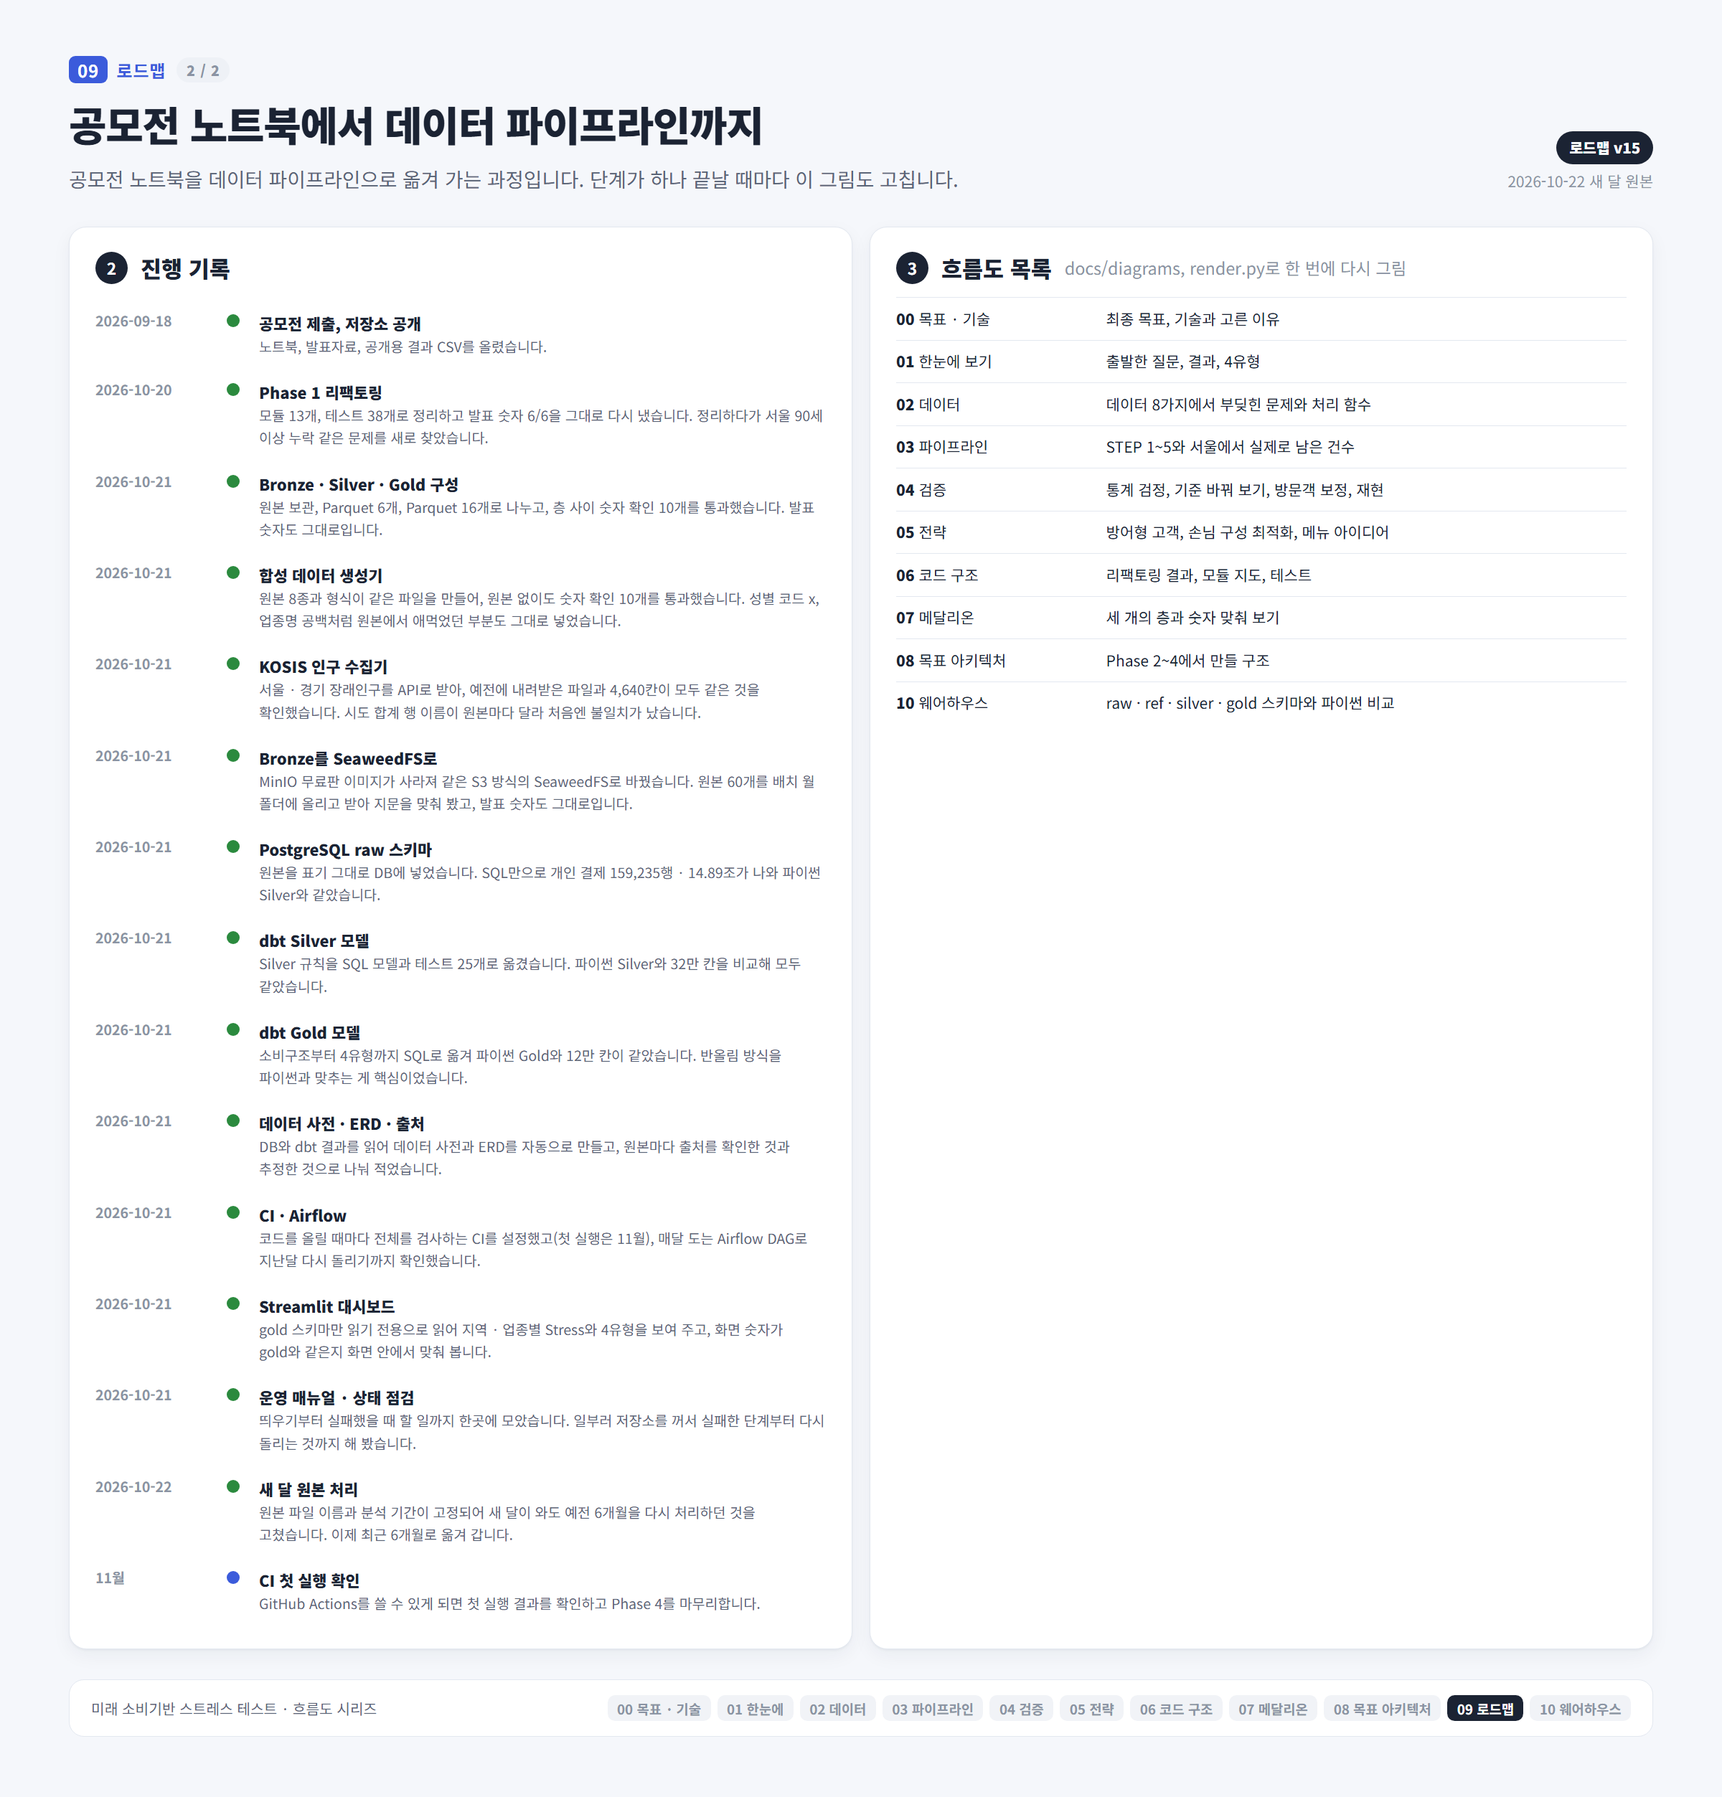
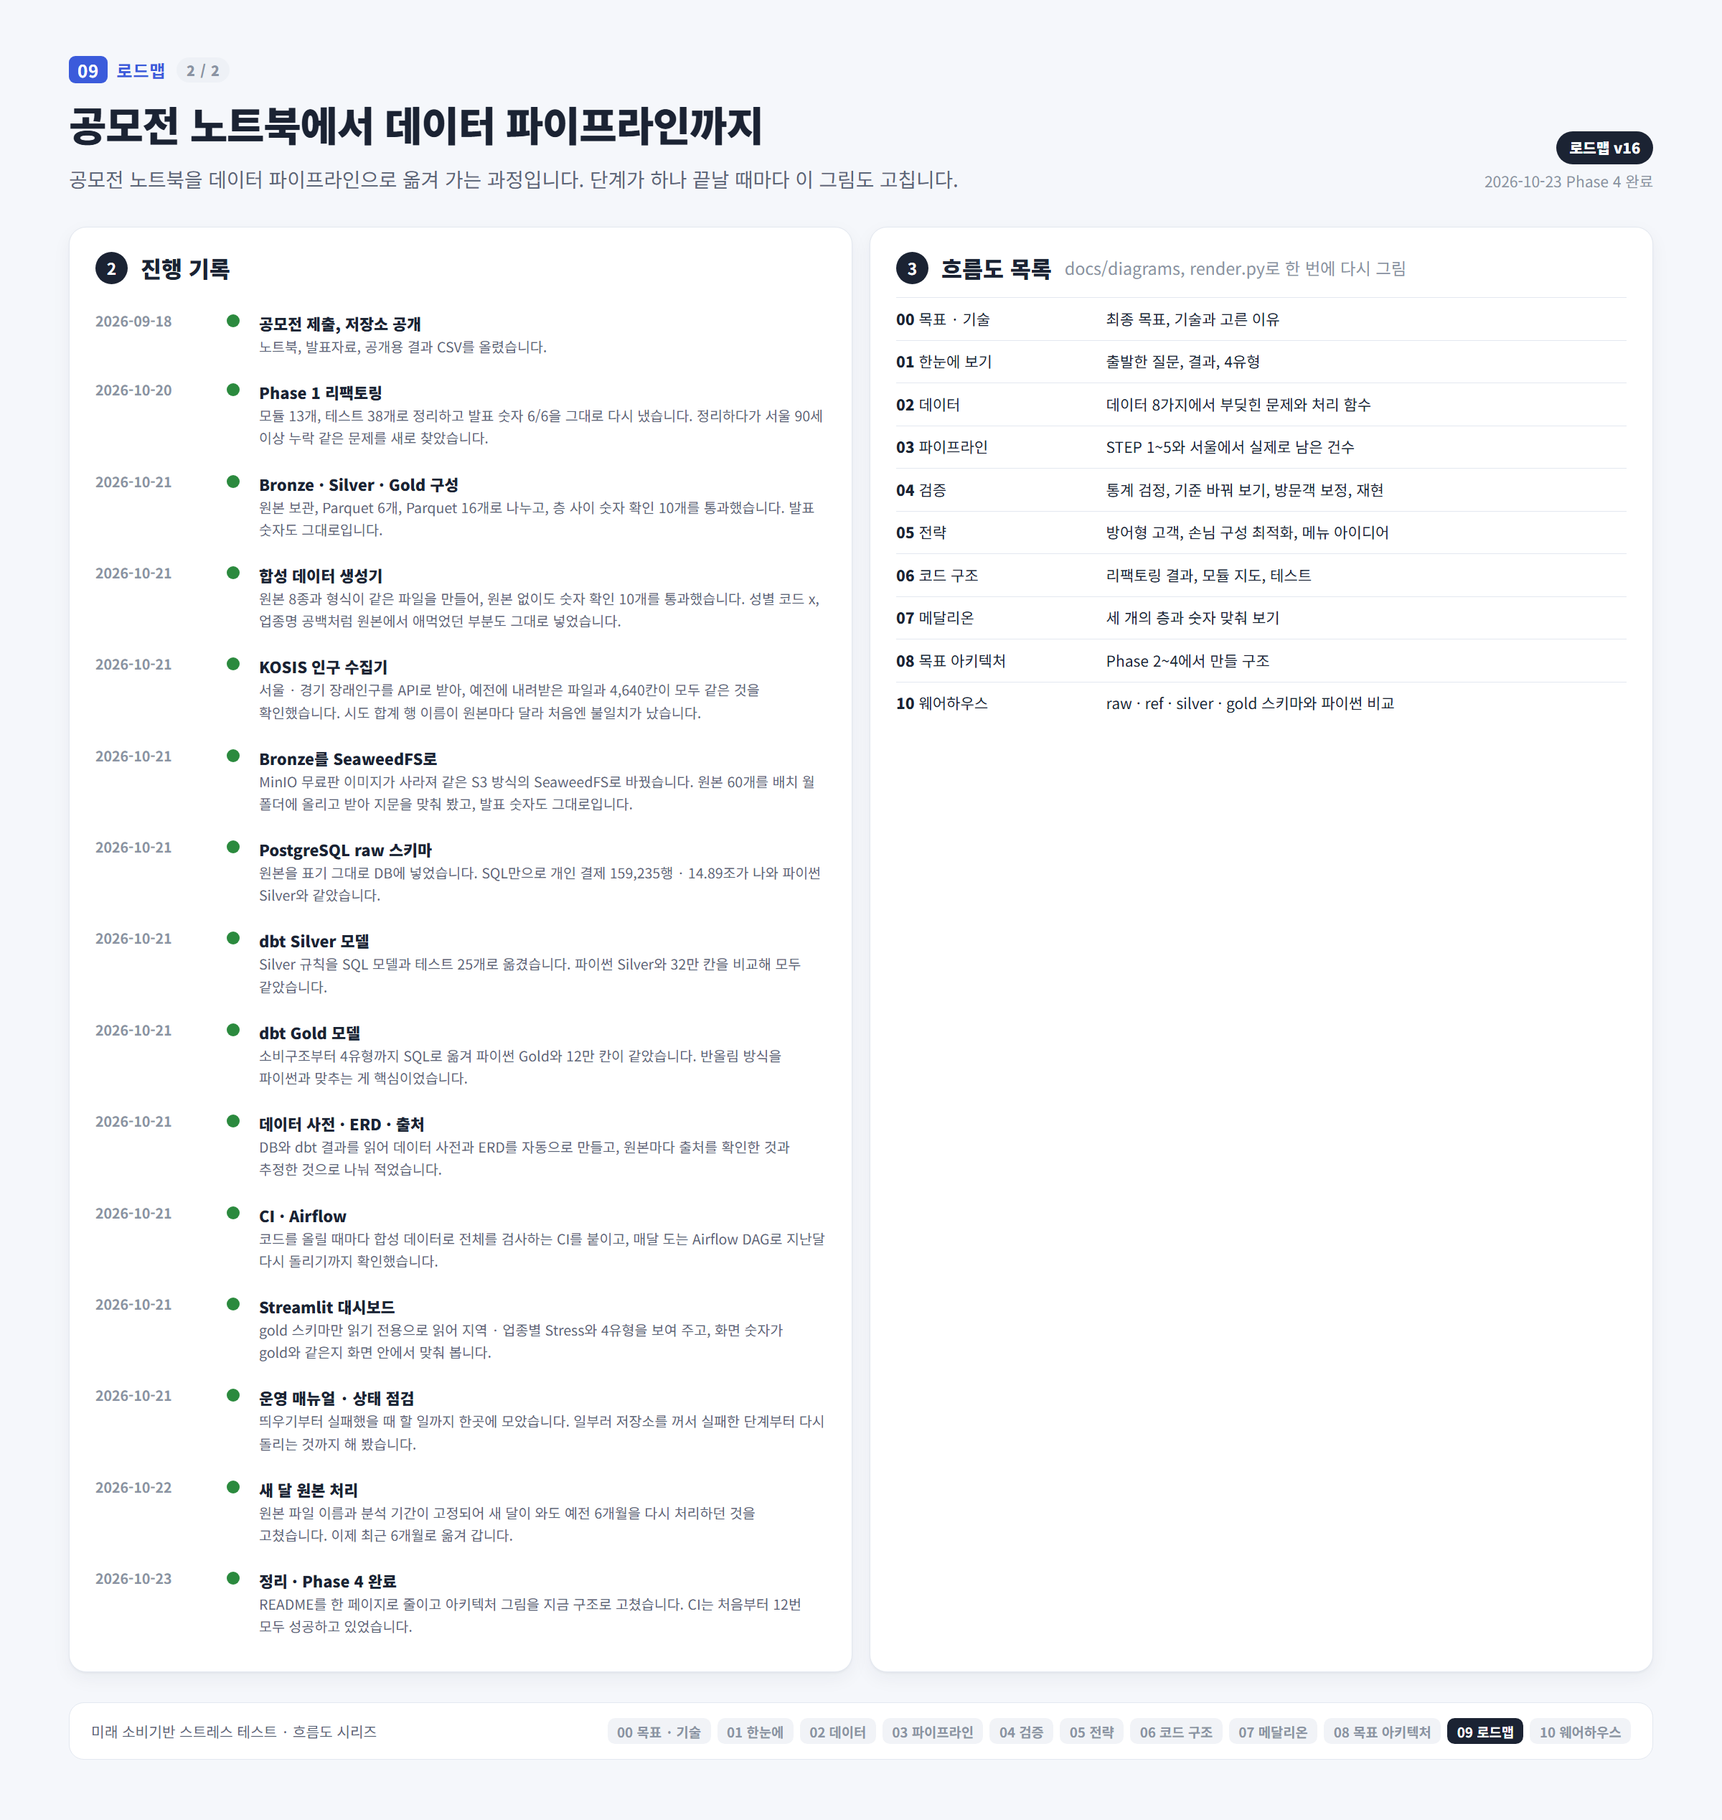
CI가 처음부터 돌고 있던 것을 기록에 반영

diff --git a/docs/diagrams/09_roadmap.html b/docs/diagrams/09_roadmap.html
@@ -20,7 +20,7 @@
   .pillar span { font-size: 13.5px; color: #C9D2E3; line-height: 1.5; }
   .timeline { position: relative; display: grid; grid-template-columns: repeat(5, 1fr); gap: 14px; }
   .track { position: absolute; left: 30px; right: 30px; top: 15px; height: 4px; background: #DDE2EA; border-radius: 4px; }
-  .track-fill { position: absolute; left: 30px; top: 15px; height: 4px; width: 43%; background: var(--green); border-radius: 4px; }
+  .track-fill { position: absolute; left: 30px; top: 15px; height: 4px; width: calc(80% + 2px); background: var(--green); border-radius: 4px; }
   .phase { position: relative; padding-top: 44px; }
   .marker { position: absolute; top: 3px; left: 18px; width: 28px; height: 28px; border-radius: 50%; background: #fff; border: 4px solid #C9D0DB; }
   .phase.done .marker { background: var(--green); border-color: var(--green); }
@@ -67,7 +67,7 @@
     <h1>공모전 노트북에서 데이터 파이프라인까지</h1>
     <p class="lede">공모전 노트북을 데이터 파이프라인으로 옮겨 가는 과정입니다. 단계가 하나 끝날 때마다 이 그림도 고칩니다.</p>
   </div>
-  <div class="version"><b>로드맵 v15</b><br>2026-10-22 새 달 원본</div>
+  <div class="version"><b>로드맵 v16</b><br>2026-10-23 Phase 4 완료</div>
 </div>
 
 <div data-part="1" class="goal">
@@ -147,13 +147,13 @@
         <div class="dod"><b>기준 통과</b> · Silver · Gold 9개 표 45만 칸이 파이썬과 같고, 테스트 49개 통과</div>
       </div></div>
 
-    <div class="phase now"><span class="marker"></span>
+    <div class="phase done"><span class="marker"></span>
       <div class="card p-card">
-        <div class="p-head"><span class="p-no">PHASE 4</span><span class="status s-now">CI 확인만 남음 · 11월</span></div>
+        <div class="p-head"><span class="p-no">PHASE 4</span><span class="status s-done">완료 · 2026.10</span></div>
         <h4>자동화 · 조회 화면</h4>
         <p class="p-goal">매달 자동으로 돌리고, 코드를 고치면 자동으로 확인하고, 결과를 화면으로 보여줍니다.</p>
         <div><div class="block-label">할 일</div><ul class="todo">
-          <li class="ok">GitHub Actions CI 설정 (첫 실행은 11월)</li>
+          <li class="ok">GitHub Actions CI (실행 12번 모두 성공)</li>
           <li class="ok">Airflow 월 배치, 지난달 다시 돌리기</li>
           <li class="ok">Streamlit 대시보드 (gold 읽기 전용)</li>
           <li class="ok">운영 매뉴얼, 상태 점검 명령</li></ul></div>
@@ -178,11 +178,11 @@
         <div class="log-row"><span class="date">2026-10-21</span><span class="dot" style="background:var(--green)"></span><div><b>dbt Silver 모델</b><p>Silver 규칙을 SQL 모델과 테스트 25개로 옮겼습니다. 파이썬 Silver와 32만 칸을 비교해 모두 같았습니다.</p></div></div>
         <div class="log-row"><span class="date">2026-10-21</span><span class="dot" style="background:var(--green)"></span><div><b>dbt Gold 모델</b><p>소비구조부터 4유형까지 SQL로 옮겨 파이썬 Gold와 12만 칸이 같았습니다. 반올림 방식을 파이썬과 맞추는 게 핵심이었습니다.</p></div></div>
         <div class="log-row"><span class="date">2026-10-21</span><span class="dot" style="background:var(--green)"></span><div><b>데이터 사전 · ERD · 출처</b><p>DB와 dbt 결과를 읽어 데이터 사전과 ERD를 자동으로 만들고, 원본마다 출처를 확인한 것과 추정한 것으로 나눠 적었습니다.</p></div></div>
-        <div class="log-row"><span class="date">2026-10-21</span><span class="dot" style="background:var(--green)"></span><div><b>CI · Airflow</b><p>코드를 올릴 때마다 전체를 검사하는 CI를 설정했고(첫 실행은 11월), 매달 도는 Airflow DAG로 지난달 다시 돌리기까지 확인했습니다.</p></div></div>
+        <div class="log-row"><span class="date">2026-10-21</span><span class="dot" style="background:var(--green)"></span><div><b>CI · Airflow</b><p>코드를 올릴 때마다 합성 데이터로 전체를 검사하는 CI를 붙이고, 매달 도는 Airflow DAG로 지난달 다시 돌리기까지 확인했습니다.</p></div></div>
         <div class="log-row"><span class="date">2026-10-21</span><span class="dot" style="background:var(--green)"></span><div><b>Streamlit 대시보드</b><p>gold 스키마만 읽기 전용으로 읽어 지역 · 업종별 Stress와 4유형을 보여 주고, 화면 숫자가 gold와 같은지 화면 안에서 맞춰 봅니다.</p></div></div>
         <div class="log-row"><span class="date">2026-10-21</span><span class="dot" style="background:var(--green)"></span><div><b>운영 매뉴얼 · 상태 점검</b><p>띄우기부터 실패했을 때 할 일까지 한곳에 모았습니다. 일부러 저장소를 꺼서 실패한 단계부터 다시 돌리는 것까지 해 봤습니다.</p></div></div>
         <div class="log-row"><span class="date">2026-10-22</span><span class="dot" style="background:var(--green)"></span><div><b>새 달 원본 처리</b><p>원본 파일 이름과 분석 기간이 고정되어 새 달이 와도 예전 6개월을 다시 처리하던 것을 고쳤습니다. 이제 최근 6개월로 옮겨 갑니다.</p></div></div>
-        <div class="log-row"><span class="date">11월</span><span class="dot" style="background:var(--primary)"></span><div><b>CI 첫 실행 확인</b><p>GitHub Actions를 쓸 수 있게 되면 첫 실행 결과를 확인하고 Phase 4를 마무리합니다.</p></div></div>
+        <div class="log-row"><span class="date">2026-10-23</span><span class="dot" style="background:var(--green)"></span><div><b>정리 · Phase 4 완료</b><p>README를 한 페이지로 줄이고 아키텍처 그림을 지금 구조로 고쳤습니다. CI는 처음부터 12번 모두 성공하고 있었습니다.</p></div></div>
       </div>
     </div>
     <div class="card pad stack" style="gap:12px">

diff --git a/docs/notes/PROGRESS.md b/docs/notes/PROGRESS.md
@@ -3,6 +3,13 @@
 날짜별로 무엇을 왜 했고, 숫자로 무엇을 확인했고, 무엇에 부딪혔는지 적습니다. 최신이 위입니다.
 기술마다 정리한 내용은 [README 목차](README.md)의 주제 문서에 있습니다.
 
+## 2026-10-23 — README 정리 · CI 실제 결과 확인
+
+- README를 한 페이지(77줄)로 줄임: 무엇을 풀었나 → 구조 → 핵심 설계 → 3줄 실행 → 더 보기. 실행 방법 · 분석 내용 · 흐름도 목록은 `docs/`의 문서로 옮김(지운 내용 없음).
+- 설계 기록의 결정 이유를 1인칭으로 다시 쓰고, 이 일지를 '한 일 · 확인 · 부딪힘'으로 정리. 커밋 제목도 짧은 한국어로 다시 씀.
+- 아키텍처 흐름도(08)가 '계획 · 만들기 전' 상태로 남아 있어 지금 구조(실제 표 이름 · Airflow 단계 · 실제로 하는 검사)로 고침.
+- **CI가 처음부터 돌고 있었음을 확인:** README의 CI 배지가 'passing'이라 실행 목록을 보니, 첫 실행(10-21 13:16)부터 12번 모두 성공. 올린 직후의 '대기 중'을 '쓸 수 없음'으로 잘못 읽었던 것 → 17 · 18 · 로드맵 기록을 바로잡음.
+
 ## 2026-10-22 — 새 달 원본 처리 (월 배치 보완)
 
 - **찾은 문제:** 카드 원본 파일 이름과 분석 기간(1 ~ 6월)이 코드에 고정되어, 7월 원본이 와도 예전 6개월을 다시 처리하고 성공으로 끝나는 상태였음. 18번 기록의 '다음 달 원본을 처리한다'도 사실과 달라 바로잡음.
@@ -26,7 +33,7 @@
 
 ## 2026-10-21 — Airflow 월 배치 (Phase 4-2)
 
-- GitHub Actions를 11월부터 쓸 수 있어서, 기다리는 동안 월 배치를 먼저 함. CI PR(#2)은 이 PC 확인으로 합침.
+- 그때는 GitHub Actions를 11월부터 쓸 수 있다고 판단해 월 배치를 먼저 함(실제로는 처음부터 돌고 있었음, 10-23 확인). CI PR(#2)은 이 PC 확인으로 합침.
 - 이 PC의 공식 이미지(3.1.7) 위에 프로젝트 의존성 + dbt 1.9.0(별도 가상환경)을 얹은 이미지, `airflow standalone`, 기록 DB는 같은 PostgreSQL의 `airflow` 데이터베이스, 평소엔 안 띄움(`--profile airflow`).
 - DAG `future_stress_monthly`: 새 원본 확인 → Bronze → 저장소 → raw → (dbt ‖ 파이썬) → 비교. 일은 `orchestration.py`가, DAG는 순서만.
 - **확인:** 6월 배치 8단계 성공(67초), 다시 돌려도 '변경 없음'. backfill: 2 ~ 5월 1일 실행은 건너뜀, 7월 1일 실행(배치 202606)만 처리.
@@ -37,7 +44,7 @@
 - Phase 4를 CI → Airflow → 대시보드 → 운영 매뉴얼 순서로 나눔. CI가 생기므로 작업 방식을 브랜치 → PR → CI → 합치기로 다시 바꿈.
 - `.github/workflows/ci.yml`: 실행마다 새 무작위 계정(`local_env`) → `docker compose up -d --wait` → pytest 전체 → 합성 데이터 파이프라인(객체 저장소 + raw + 대사) → dbt build → dbt = 파이썬 비교.
 - `compare-silver` · `compare-gold`가 불일치면 실패 코드로 끝나게 바꿈. 올리기 전에 YAML 문법 오류(`{raw_schema: ...}`의 `: `)를 찾아 고침.
-- PR [#2](https://github.com/seoloo/BC_Consumer_Data_Contest/pull/2)를 올렸지만 GitHub Actions를 아직 쓸 수 없어 실행이 대기 중에 머묾. **CI 첫 실행 결과는 11월에 확인.**
+- PR [#2](https://github.com/seoloo/BC_Consumer_Data_Contest/pull/2)를 올린 직후 실행이 대기 중이라 아직 쓸 수 없다고 판단함. 실제로는 몇 분 뒤 첫 실행이 모두 성공했음(10-23에 확인).
 
 ## 2026-10-21 — 데이터 사전 · ERD · 출처 문서 (Phase 3-4, Phase 3 완료)
 

diff --git a/docs/notes/17_ci.md b/docs/notes/17_ci.md
@@ -13,7 +13,7 @@
 | 2026-10-21 | CI 안에서도 docker compose를 그대로 | 이 PC에서 쓰는 `docker-compose.yml`을 그대로 써서 'CI에서는 되는데 내 PC에서는 안 됨'(또는 반대)을 줄임 |
 | 2026-10-21 | 계정 키는 실행마다 무작위로 | 저장소에 키를 적지 않고, `local_env`가 실행할 때마다 새로 만듦. CI 서버는 실행이 끝나면 사라지므로 키도 함께 사라짐 |
 | 2026-10-21 | 브랜치 → PR → CI → 합치기로 다시 | 2026-10-21에 '혼자 작업하고 바로 합치니 브랜치가 역할을 못 한다'며 main에 바로 커밋하기로 했었음. CI가 생기면서 PR마다 자동 검사가 돌아 브랜치가 다시 의미를 가짐 ([12](12_docs_and_git.md)) |
-| 2026-10-21 | CI가 돌지 않는 동안에도 PR #2는 합침 | 단계마다 이 PC에서 같은 명령으로 확인했고, 열어 두면 이후 작업과 문서가 충돌해서 먼저 합침. 실제 CI 결과는 11월에 확인 |
+| 2026-10-21 | CI 결과를 기다리지 않고 PR #2를 합침 | 올린 직후 실행이 '대기 중'이라 아직 쓸 수 없다고 판단했음. 단계마다 이 PC에서 같은 명령으로 확인한 뒤 합침. 실제로는 처음부터 돌고 있었음(아래 '써 보고 확인한 것') |
 | 2026-10-21 | 비교 명령이 불일치면 실패 코드로 | 출력만 하면 CI는 '명령이 끝났다 = 성공'으로 봄. 다르면 종료 코드 1로 끝나야 CI가 빨간불을 켬 |
 
 ## 왜 필요했나
@@ -48,7 +48,8 @@
 ## 써 보고 확인한 것
 
 - YAML 문법 오류를 올리기 전에 찾았습니다. `--vars "{raw_schema: raw_synthetic}"` 안의 `: `를 YAML이 '키: 값'으로 읽어서, 명령을 블록(`|`)으로 감쌌습니다.
-- **아직 GitHub에서 실제로 돌려 보지 못했습니다.** PR [#2](https://github.com/seoloo/BC_Consumer_Data_Contest/pull/2)를 올렸지만 지금은 GitHub Actions를 쓸 수 없는 상태라 실행이 대기 중에 머물렀습니다(11월부터 쓸 수 있음). CI의 각 단계(local_env → compose → pytest → 파이프라인 → dbt → 비교)는 이 PC에서 같은 명령으로 모두 통과한 것을 확인했고, PR은 그 확인을 근거로 합쳤습니다. **11월에 첫 실행 결과를 확인해 여기에 덧붙입니다.**
+- **GitHub에서도 처음부터 돌고 있었습니다.** PR [#2](https://github.com/seoloo/BC_Consumer_Data_Contest/pull/2)를 올린 직후 실행이 '대기 중'이어서 GitHub Actions를 아직 쓸 수 없다고 판단했지만, 첫 실행(2026-10-21 13:16)부터 모든 단계가 성공했습니다. 2026-10-23까지 PR · main 실행 12번이 모두 성공했고, 한 번에 2분 30초 ~ 3분 걸렸습니다.
+- **배운 점:** '대기 중'은 '못 쓴다'가 아니라 '곧 돈다'일 수 있습니다. 실행 목록(`gh run list`)을 한 번만 봤어도 바로 알 수 있었습니다. 판단의 근거를 직접 확인하지 않고 기록에 '11월에 확인'이라고 적어 둔 것이 실수였습니다.
 
 ## 다른 방법과 고르지 않은 이유
 

diff --git a/docs/notes/18_airflow.md b/docs/notes/18_airflow.md
@@ -8,7 +8,7 @@
 
 | 날짜 | 결정 | 이유 |
 |---|---|---|
-| 2026-10-21 | CI 대신 Airflow부터 | GitHub Actions를 11월부터 쓸 수 있어서, 기다리는 동안 월 배치(4-2)를 먼저 함 |
+| 2026-10-21 | CI 다음으로 Airflow | 그때는 GitHub Actions를 11월부터 쓸 수 있다고 판단해 월 배치(4-2)를 먼저 함 (실제로는 CI가 처음부터 돌고 있었음, [17](17_ci.md)) |
 | 2026-10-21 | 이 PC에 있던 공식 이미지(3.1.7) 위에 얹기 | 3GB짜리 이미지를 새로 받지 않음. 프로젝트 의존성은 이 PC의 .venv와 같은 버전으로 고정 |
 | 2026-10-21 | dbt는 Airflow 안의 별도 가상환경 (1.9.0) | Airflow와 dbt의 의존성이 부딪히지 않게. dbt 컨테이너와 같은 버전. Airflow가 Docker를 직접 부르려면 docker.sock(사실상 PC 관리자 권한)을 넘겨야 해서 피함 |
 | 2026-10-21 | `airflow standalone` (한 컨테이너) | 스케줄러 · 화면 · DAG 읽기를 한 컨테이너에. 운영용은 아니지만, 이미 다른 프로젝트 컨테이너가 많이 떠 있는 이 PC의 메모리에 맞춤 |

diff --git a/docs/diagrams/README.md b/docs/diagrams/README.md
@@ -26,7 +26,7 @@
 | Phase 1.5 | 메달리온 아키텍처: Bronze → Silver → Gold, 층 사이 대사 10개 | 완료 |
 | Phase 2 | 합성 데이터 생성기 · KOSIS 수집기 · SeaweedFS Bronze 저장소 · Docker Compose | 완료 |
 | Phase 3 | PostgreSQL + dbt 데이터 마트 · 품질 검사 · 데이터 사전 · ERD · 출처 문서 | 완료 |
-| Phase 4 | Airflow 월 배치 · Streamlit 대시보드 · [운영 매뉴얼](../operations.md) · CI 설정 · 새 달 원본 처리 | 완료 (CI 첫 실행만 11월에 확인) |
+| Phase 4 | Airflow 월 배치 · Streamlit 대시보드 · [운영 매뉴얼](../operations.md) · CI 설정 · 새 달 원본 처리 | 완료 |
 
 ![전환 로드맵 1/2](parts/09_roadmap_1.png)
 
